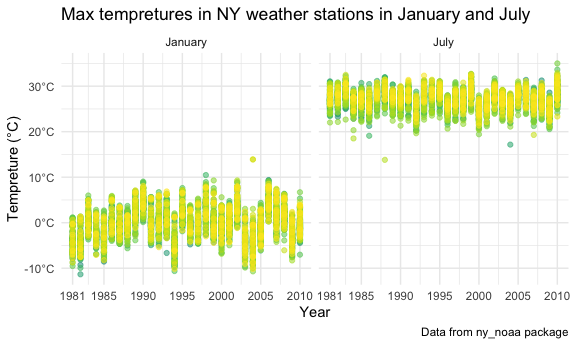
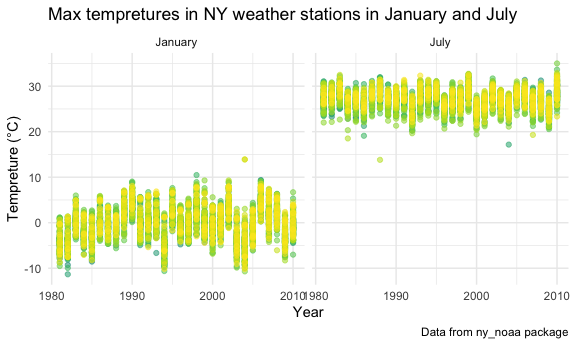
Finished Problem 3

diff --git a/p8105_hw3_cl4044.md b/p8105_hw3_cl4044.md
@@ -129,20 +129,15 @@ accel_df
     ## 10     1      1 Friday     10           43.0 FALSE  
     ## # … with 50,390 more rows
 
-This dataset has 50400 observations. The dataset contains 6 variables:
-
-`week`: the week of the obeservation, a integer variable ranging from 1-
-5.
-
+This dataset has 50400 observations. The dataset contains 6 variables:  
+`week`: the week of the obeservation, a integer variable ranging from 1
+to 5.  
 `day_id`: the unique id of the day of the observation, a integer varible
-ranging from 1 to 35
-
+ranging from 1 to 35  
 `day`: the name of the day of the week, a factor variable from Monday to
-Sunday.
-
+Sunday.  
 `activity_count`: per-minute activity counts, a double variable ranging
-from 1 to 8982.
-
+from 1 to 8982.  
 `weekend`: a logical variable indicates whether the day is a day of
 observation is a weekend.
 
@@ -226,6 +221,7 @@ ny_df = ny_noaa %>%
     month = as.integer(month),
     month = (month.name[month]),
     day = as.integer(day),
+    prcp = as.double(prcp),
     prcp = prcp / 10,
     tmax = as.numeric(tmax),
     tmin = as.numeric(tmin),
@@ -257,7 +253,8 @@ ny_df %>%
     ## # … with 271 more rows
 
 For snowfall, the top five most commonly observed snowfall values are 0,
-25, 13, 51 and 76.
+25, 13, 51 and 76. Since there is no snow most of days in a year, 0
+should be the most commonly observed snowfall value.
 
 ``` r
 ny_df %>%
@@ -271,10 +268,7 @@ ny_df %>%
     y = "Tempreture (°C)", 
     x = "Year",
     caption = "Data from ny_noaa package") +
-  scale_x_continuous(breaks = c(1981, 1985, 1990, 1995, 2000, 2005, 2010),
-                  labels = c("1981", "1985", "1990", "1995", "2000", "2005", "2010")) +
-  scale_y_continuous(breaks = c(-10, 0, 10, 20, 30),
-                     labels = c("-10°C", "0°C", "10°C", "20°C", "30°C")) + theme(legend.position = "none") +
+  theme(legend.position = "none") +
   facet_grid(.~month)
 ```
 
@@ -284,19 +278,97 @@ ny_df %>%
 
 <img src="p8105_hw3_cl4044_files/figure-gfm/unnamed-chunk-9-1.png" width="90%" />
 
-The average maximum temperature is much higher in July than that of in
-January. The temprature range is also
+Most of the station’s average max temperature are between -10°C and 10°C
+in January; between 20°C and 35°C in July. The temperatures in January
+varies more than that in July. There are also a few outliers observed.
 
 ``` r
-ny_df %>%
-  pivot_longer(tmax:tmin, 
-               names_to = "max_min",
-               values_to = "temp") %>%
-  ggplot(aes(x = year, y = temp, fill = max_min)) +
-  geom_boxplot() +
-  facet_grid(.~max_min)
+tmax_tmin_plot =
+  ny_df %>%
+  ggplot(aes(x = tmax, y = tmin)) +
+  geom_hex() +
+    labs(
+    title = "Max vs. Min Temperatures in NY",
+    x = "Max Temperature (°C)",
+    y = "Min Temperature (°C)",
+    caption = "Data from ny_noaa package"
+  ) +
+  theme(legend.position = "right")
 ```
 
-    ## Warning: Removed 2268778 rows containing non-finite values (stat_boxplot).
+``` r
+snowfall_plot = 
+  ny_df %>%
+  drop_na() %>% 
+  filter(snow > 0 & snow < 100) %>%
+  ggplot(aes(x = year, y = snow, group = year, fill = year)) +
+  geom_violin() +
+  stat_summary(mult=1, geom="pointrange", size = 0.1, color="red")
+```
 
-<img src="p8105_hw3_cl4044_files/figure-gfm/unnamed-chunk-10-1.png" width="90%" />
+    ## Warning: Ignoring unknown parameters: mult
+
+``` r
+    labs(
+    title = "Distribution of Snowfall(mm)",
+    x = "Year",
+    y = "Snowfall (mm)",
+    caption = "Data from ny_noaa package"
+  ) +
+  scale_x_continuous(
+    breaks = c(seq(1980, 2010, by = 5))
+  ) +
+  theme(legend.position = "none")
+```
+
+    ## NULL
+
+Two-panel plot using patchwork
+
+``` r
+tmax_tmin_plot + snowfall_plot
+```
+
+    ## Warning: Removed 1136276 rows containing non-finite values (stat_binhex).
+
+    ## No summary function supplied, defaulting to `mean_se()`
+
+<img src="p8105_hw3_cl4044_files/figure-gfm/unnamed-chunk-12-1.png" width="90%" />
+
+In the Max vs. Min Temperatures in NY plot, the observations are mostly
+clustered on two spot, the (28, 14) and (10,0) cluster. Most of
+observations are found in the greenish hexes, all the purple hexes means
+the number observation is small (\<10000). In the Snowfall Distribution
+plot, we can observe that the snowfall distributions across years looks
+similar to each other. So the snowfall each year is pretty consistent
+with an averafe of snowfall around 30mm.
+
+The `ny_df` dataset has 2595176 rows and 9 columns. After tidying the
+original dataset, the `ny_df` dataframe contains `9` variables:  
+`id`: Weather station ID, a character variable.  
+`year`: Year of observation, an integer variable, ranging from 1981 to
+2010.  
+`month`: The month of observation, a character variable.  
+`day`: The day of observation, an integer variable, ranging from 1 to
+31.  
+`prcp`: Precipitation (mm), a double variable, ranging from 0 to 2286.  
+`snow`: Snowfall (mm), an integer variable, ranging from -13 to 10160.  
+`snwd`: Snow depth (mm), an integer variable, ranging from 0 to 9195.  
+`tmax`: Maximum temperature (C), a double variable, ranging from -38.9
+to 60.  
+`tmin`: Minimum temperature (C), a double variable, ranging from -59.4
+to 60.
+
+There is 3387623 counts of null value in `ny_df`.  
+The total null values in each columns:
+
+``` r
+colSums(is.na(ny_df))
+```
+
+    ##      id    year   month     day    prcp    snow    snwd    tmax    tmin 
+    ##       0       0       0       0  145838  381221  591786 1134358 1134420
+
+Since our data frame is so large(2595176 X 9), the 3387623 counts of
+null value does not matter very much. Our plots ignored these null
+values anyway.
